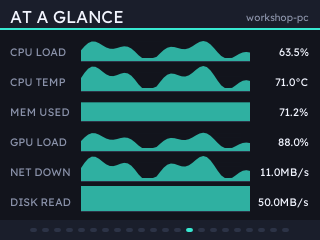
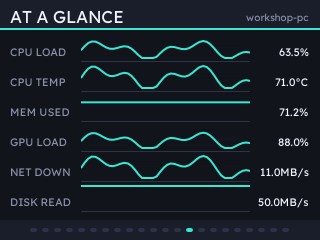
Draw a sparkline as a line, not as a filled area
A plot 22px tall filled to its axis is a slab of colour on any reading that holds steady:
it says the level over again where the reading beside it already does, and says nothing
about the shape. Six of those is the page.

area and line are now the same layout with different ends on it - _lay_out smooths and
scales the samples into the float buffer, area closes it along a base and line strokes it
open - so neither scales its samples twice and the plot walks the same way in both.

2.0 with a miter join. The weight is free, the join is not: 2.0 and 2.5 time the same as
1.5, while a round join is an arc at each of 48 vertices and 3.5ms a page more, which no
miter limit or bevel beats. Centred on the samples, or the band grows to one side of its
own data.

What it costs depends on the data - 0.5ms a page when a reading barely moves, 2.3ms on
noise, 4ms on a sawtooth - and it costs no frame rate: filled and stroked both land on the
same 34.7ms frame, 28.7fps over 60 frames with a walking plot, the extra drawing fitting
inside the wait for vsync. The page is 28.4ms of drawing against 26.9.

The test carries a shape stub for the same reason it carries a colour one: the flags are
named at import, and these modules are imported here.

Changed region(s): [[0.25, 0.4083, 0.7812, 0.9042], [0.25, 0.1458, 0.7812, 0.3792]]

diff --git a/src/statsbadge/badge_app/draw.py b/src/statsbadge/badge_app/draw.py
@@ -785,8 +785,10 @@ def curve(values, steps=CURVE_STEPS):
 _points = array("f", b"")
 
 
-def area(left, top, width, height, values, peak, base=None, shift=0.0):
-    """One filled area from `values` against `peak`, closed along its base. A shape, or None.
+def _lay_out(left, top, width, height, values, peak, shift):
+    """`values` scaled against `peak` and laid across the box, in the shared float buffer.
+
+    Returns how many floats were written, or 0.
 
     `shift` is how far the plot has walked left since its newest sample landed, in samples:
     0 draws it where the readings are, and 1 would have moved a whole sample's width. The
@@ -794,16 +796,15 @@ def area(left, top, width, height, values, peak, base=None, shift=0.0):
     at the left while the gap at the right is where the next one is arriving.
 
     The plot is smoothed first if it is tall enough to show a curve, then scaled and laid out
-    in one pass into a float buffer: `shape.custom` takes one of those, so no point is boxed
-    as a vec2 - 2.3ms against 3.7 for 191 points, and the same pixels. Scaling here rather
-    than in a list the caller passes saves a pass over every sample, which was 14.7us a point
-    and 4.2ms of the sparkline page. Where the base sits is a caller's business, a sparkline's
-    axis being under its plot rather than at the foot of it.
+    in one pass: `shape.custom` takes a float buffer, so no point is boxed as a vec2 - 2.3ms
+    against 3.7 for 191 points, and the same pixels. Scaling here rather than in a list the
+    caller passes saves a pass over every sample, which was 14.7us a point and 4.2ms of the
+    sparkline page.
     """
     global _points
     count = len(values)
     if count < 2:
-        return None
+        return 0
     steps = curve_steps(width, height, count)
     if steps > 1:
         values = curve([value or 0.0 for value in values], steps)
@@ -823,13 +824,43 @@ def area(left, top, width, height, values, peak, base=None, shift=0.0):
         _points[i] = start + index * step
         _points[i + 1] = top if y < top else (bottom if y > bottom else y)
         i += 2
+    return i
+
+
+def area(left, top, width, height, values, peak, base=None, shift=0.0):
+    """One filled area from `values` against `peak`, closed along its base. A shape, or None.
+
+    Where the base sits is a caller's business, a sparkline's axis being under its plot
+    rather than at the foot of it.
+    """
+    i = _lay_out(left, top, width, height, values, peak, shift)
+    if not i:
+        return None
     if base is None:
-        base = bottom
-    _points[i] = start + width
+        base = top + height
+    _points[i] = _points[i - 2]
     _points[i + 1] = base
-    _points[i + 2] = start
+    _points[i + 2] = _points[0]
     _points[i + 3] = base
     return shape.custom(memoryview(_points)[:i + 4])
+
+
+# A plot drawn as a line rather than as a fill. Anti-aliased, so it costs its edges: the
+# weight is free - 2.0 and 2.5 time the same as 1.5 - but the join is not, a round one being
+# an arc at every one of 48 vertices and 3.5ms a page more than a miter. Centred on the
+# samples, or the band grows to one side of its own data.
+LINE_W = 2.0
+LINE_FLAGS = (shape.PATH_OPEN | shape.ALIGN_CENTER | shape.JOIN_MITER | shape.CAP_BUTT)
+
+
+def line(left, top, width, height, values, peak, weight=LINE_W, shift=0.0):
+    """`values` as a stroked polyline against `peak`. A shape, or None."""
+    i = _lay_out(left, top, width, height, values, peak, shift)
+    if not i:
+        return None
+    trace = shape.custom(memoryview(_points)[:i])
+    trace.stroke(weight, LINE_FLAGS)
+    return trace
 
 
 def graph(theme, series, labels, maximum=None, shift=0.0):
@@ -1090,10 +1121,14 @@ def rings(theme, entries):
 # -- sparklines -------------------------------------------------------------
 
 def sparklines(theme, entries, shift=0.0):
-    """A row per reading: name, current value, and its history as a small area.
+    """A row per reading: name, current value, and its history as a small line.
 
     Six of these fit the body band, which is the point - one page that says what every
     other page says, at the cost of the detail a full graph gives.
+
+    A line rather than a filled area, at 1.2ms a page more: a plot 22px tall filled to its
+    axis is a slab of colour on any reading that holds steady, which says the level over
+    again where the reading beside it already does, and says nothing about the shape.
     """
     rows = entries[:6]
     if not rows:
@@ -1114,15 +1149,12 @@ def sparklines(theme, entries, shift=0.0):
         screen.pen = theme.grid
         screen.hspan(plot_x, top + plot_h + 3, plot_w)
         if points and len(points) > 1 and peak:
-            filled = area(plot_x, top, plot_w, plot_h, points, peak,
-                          base=top + plot_h + 3, shift=shift)
+            trace = line(plot_x, top, plot_w, plot_h, points, peak, shift=shift)
             screen.pen = theme.accent
-            screen.alpha = 190
             was = screen.clip
             screen.clip = rect(plot_x, look.BODY_TOP, plot_w, look.BODY_H)
-            screen.shape(filled)
+            screen.shape(trace)
             screen.clip = was
-            screen.alpha = 255
         blit_label(value_text, look.SIZE_LABEL, theme.ink, look.W - look.PAD, mid - 7,
                    align=2)
 

diff --git a/tests/test_core.py b/tests/test_core.py
@@ -64,8 +64,19 @@ class FakeColour:
         return "color.rgb({}, {}, {}, {})".format(*self.parts())
 
 
-# Where the badge finds it, and before anything imports look.
+class FakeShape:
+    """The stroke flags draw.py names at import. Mirrors picovector's `stroke_flags_t`,
+    though nothing here depends on the values: only the badge draws with them."""
+
+    PATH_OPEN = 1 << 2
+    ALIGN_CENTER = 2
+    JOIN_MITER = 0
+    CAP_BUTT = 0
+
+
+# Where the badge finds them, and before anything imports look or draw.
 builtins.color = FakeColour
+builtins.shape = FakeShape
 
 
 class Harness:
@@ -1762,6 +1773,25 @@ def test_a_smoothed_graph_still_reads_as_the_data(_h):
     body = source[source.index("def curve("):]
     body = body[:body.index("\ndef ", 1)]
     assert "_basis(steps)" in body, "the weights are not taken from the table"
+
+    # A fill and a line are the same layout with different ends on it, so both go through
+    # _lay_out and neither scales its samples twice.
+    for name in ("def area(", "def line("):
+        widget = source[source.index(name):]
+        widget = widget[:widget.index("\ndef ", 1)]
+        assert "_lay_out(" in widget, f"{name} lays its own points out"
+
+    # A sparkline is stroked, and how it is stroked is what it costs: a round join is an arc
+    # at every sample and 3.5ms a page, where the weight is free.
+    trace = source[source.index("LINE_FLAGS = "):]
+    trace = trace[:trace.index("\n")]
+    assert "JOIN_MITER" in trace and "PATH_OPEN" in trace, trace
+    # Centred, or the band grows to one side of the samples it is drawn from.
+    assert "ALIGN_CENTER" in trace, trace
+    sparks = source[source.index("def sparklines("):]
+    sparks = sparks[:sparks.index("\ndef ", 1)]
+    assert "line(plot_x" in sparks, "the sparkline page is not drawing lines"
+    assert "screen.alpha" not in sparks, "a line does not need to let the page through"
 
 
 @check

diff --git a/DEVELOPMENT.md b/DEVELOPMENT.md
@@ -140,7 +140,7 @@ So anything repeated is baked and blitted, and only what changes shape is drawn 
 - **Whether that buys frames depends on vsync.** `update()` is 7.5ms of transfer and the panel then rounds the frame up to a whole 90Hz period, so a page has to draw in under 14.7ms to reach 45fps and under 25.8ms to hold 30. Between those, milliseconds are free - which is why the label ceiling moved the digital clock from 16.8 to 13.6ms and took it from 30fps to 45, and the seven-segment face from 28.7 to 17.7ms without changing its frame rate at all.
 - **Header and footer** are drawn where they stand: raster fills, the title and subtitle from the label cache, and the pip row blitted from a sprite. 2.1ms against 3.9ms when both bands were baked and blitted, a blit being 180ns a pixel against 10ns for a fill - which took 1.4 to 3ms off every page and moved the dials and the analog clock faces from 30fps to 45. Only the pips are baked, and the sprite is no wider than they are: a rounded rectangle is 0.19ms whatever its size and there can be a dozen. A whole-screen bake, for comparison, made a page turn cost 90ms. A `window()` view also takes the unscaled blit path, where equal-size source and destination rects go through the sampler.
 - **The dial** is two `shape.arc` calls. Angles start at the top and run clockwise, so a 270-degree gauge with its gap at the bottom is 225 to 495. The fill is a solid ramp colour, not a gradient: a linear gradient across the arc's box does not follow the curve, so the hue would not track the reading.
-- **A graph** is one `shape.custom` per series, a polyline across the top and back along the bottom. The two series take opposite ends of the ramp - the accent and the ramp at 0.85 are the same orange - except on a theme built out of one hue, where the page *is* one end of its own ramp and an area drawn in that is not there at all: those fall through to the dim colour, and on a pale page the second series is drawn as solid as the first, a translucent area over one washing out towards it. Every plot - graph, sparkline, trend - goes through `draw.area`, which smooths, lays out and returns the shape. `draw.curve` resamples the samples as a Catmull-Rom spline, which passes *through* each one, so the peak drawn is the peak measured; overshoot is held to the range of the data, or an area fill would run under its own baseline. Only the values are interpolated, the samples being evenly spaced. The weights are worked out once per step count: evaluating the polynomial per point cost 265us a point, 50ms for one series, against 2.7ms from the table. `curve_steps` answers how finely, or 1 for not at all: **a curve needs height to show**, and a sparkline 22px tall gives back the same picture for 1.7ms a series, which was 19ms of the spark page. Two steps a span is also indistinguishable from four against deliberately spiky data and 6ms a page cheaper. Since the rasteriser stopped pricing the bounding box the fill barely notices the difference - 2.43ms for 50 points against 2.73 for 191 - so what the step count buys back is Python, not drawing. `area` lays the points out into an `array('f')`, which `shape.custom` takes directly: 2.3ms against 3.7 to box 191 of them as `vec2`, for the same pixels. It is still a setting, `smooth`, since it is a drawing choice rather than a property of a page.
+- **A graph** is one `shape.custom` per series, a polyline across the top and back along the bottom. The two series take opposite ends of the ramp - the accent and the ramp at 0.85 are the same orange - except on a theme built out of one hue, where the page *is* one end of its own ramp and an area drawn in that is not there at all: those fall through to the dim colour, and on a pale page the second series is drawn as solid as the first, a translucent area over one washing out towards it. Every plot - graph, sparkline, trend - lays its samples out through `draw._lay_out`, which smooths and scales them into a float buffer; `draw.area` closes that along a base and `draw.line` strokes it open. **A sparkline is a line, a graph is a fill**: a plot 22px tall filled to its axis is a slab of colour on any reading that holds steady, which says the level over again where the reading beside it already does. It costs 0.5ms a page on placid data and 4ms on a sawtooth, and no frame rate: both land on the same 34.7ms frame, the extra drawing fitting inside the vsync wait. **The weight is free and the join is not** - 2.0 and 2.5 time the same as 1.5, while a round join is an arc at each of 48 vertices and 3.5ms a page more than the miter that is drawn instead, at every miter limit and against a bevel. The band is centred on the samples (`ALIGN_CENTER`), or it grows to one side of its own data. `draw.curve` resamples the samples as a Catmull-Rom spline, which passes *through* each one, so the peak drawn is the peak measured; overshoot is held to the range of the data, or an area fill would run under its own baseline. Only the values are interpolated, the samples being evenly spaced. The weights are worked out once per step count: evaluating the polynomial per point cost 265us a point, 50ms for one series, against 2.7ms from the table. `curve_steps` answers how finely, or 1 for not at all: **a curve needs height to show**, and a sparkline 22px tall gives back the same picture for 1.7ms a series, which was 19ms of the spark page. Two steps a span is also indistinguishable from four against deliberately spiky data and 6ms a page cheaper. Since the rasteriser stopped pricing the bounding box the fill barely notices the difference - 2.43ms for 50 points against 2.73 for 191 - so what the step count buys back is Python, not drawing. `area` lays the points out into an `array('f')`, which `shape.custom` takes directly: 2.3ms against 3.7 to box 191 of them as `vec2`, for the same pixels. It is still a setting, `smooth`, since it is a drawing choice rather than a property of a page.
 - **An anti-aliased shape costs its edges, not its area.** picovector used to price the bounding box, which made an arc absurd; it now skips a constant-winding run with one memset, so what is left is ~0.08ms of setup plus about 8us an edge. Measured at radius 3, where the box cannot matter: 0.114ms for four sides, 0.294 for thirty, 0.569 for sixty. The fill is nearly free - a 270-degree arc at r82 is 1.82ms with a 20px band and 1.53ms with a 1px one, and a solid disc of the same radius is 1.76ms. So the thing to watch is the side count, which scales with radius (`PV_CURVE_CHORD_PX`, clamped to 30..120), and the number of shapes: sixty dots the size of a dial's minute marks are 11.4ms whatever is in them. `image.X2` and `image.X4` cost the same, the coverage being analytic - the setting is anti-aliasing on or off, and off is ~40% cheaper. The raster path - `screen.rectangle`, `hspan`, `vspan` - is 10ns a pixel, so a large axis-aligned fill still belongs there: a 147x86 rounded rectangle is 0.70ms against 0.14ms for the same box drawn raster.
 - **A gauge draws the track it can see.** The unfilled part runs from the sweep to the end rather than the whole way round, so the two arcs abut instead of one being drawn over the other: 4.30ms against 7.61ms, and the join is under the tick in any case. That took the dial from 21.2 to 18.2ms, four gauges from 26.4 to 22.1 and the rings from 32 to 27. Splitting a long arc into quadrants is faster again in isolation - 3.06ms against 4.53 for 270 degrees, the optimum being three pieces - but it was slower on the pages that actually draw arcs, where the boxes are already small, and two anti-aliased edges laid over each other reach `1 - (1-a)(1-b)`, not 1, so every join left a seam about 10% light.
 - **Bars** are raster rectangles. Axis-aligned needs no anti-aliasing, and this is the page that can have thirty-two.
@@ -175,7 +175,7 @@ Two things it turns on. `screen` is a *builtin*, so it is rebound for the offscr
 | Disk grid | 15.4ms |
 | Host, text | 10.2ms |
 | Swiss clock | 14.2ms |
-| At a glance, six sparklines | 26.9ms |
+| At a glance, six sparklines | 28.4ms |
 | page turn, cold caches | 37.5ms |
 | nothing changed | 0ms |
 
